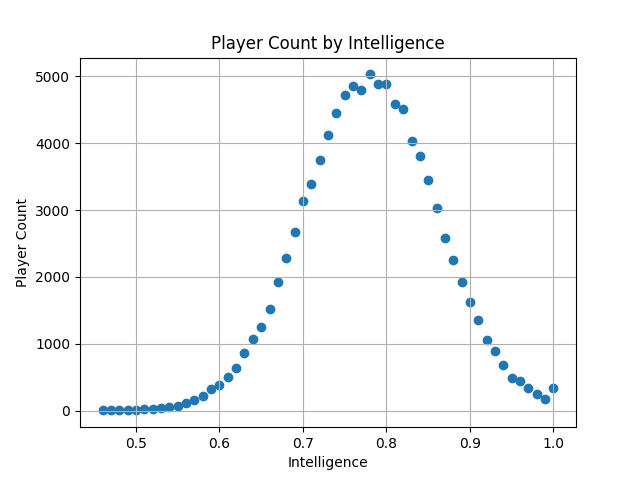
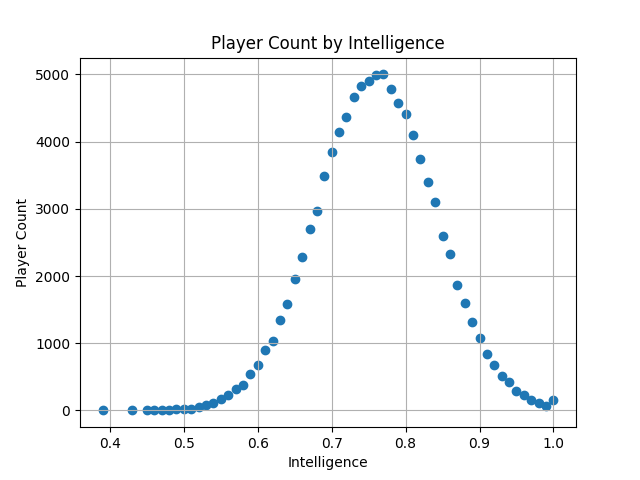
changes laptop

diff --git a/two-thirds-game/player.py b/two-thirds-game/player.py
@@ -3,28 +3,42 @@ from math import ceil
 import random
 CHOICE_RANGE = [1, 100]
 
-def clamp_choice(choice):
-    return ceil(max(CHOICE_RANGE[0], min(CHOICE_RANGE[1], choice)))
-
 class Player:
-    intelligence_epsilon = 0.01 # A small value to prevent infinite loops for very intelligent players
+    id = -1
+    thinking_depth = 0 # [0,1]
+    noise_range = 5 # random number from range is added or subtracted from answer
     answer = 0
+    score = 0
 
-    def __init__(self, id, intelligence):
+    def __init__(self, id, thinking_depth):
         self.id = id
-        self.intelligence = intelligence
+        self.thinking_depth = thinking_depth
         self.score = 0
 
     def add_win(self):
         self.score += 1
     
-    def give_answer(self, player_intelligence):
-        if player_intelligence > 1-self.intelligence_epsilon:
+    # Starting from a random answer a player with thinking_depth closer to 1 will do more 2/3 multiplications
+    def give_answer(self):
+        answer = random.uniform(1,100)
+
+        if self.thinking_depth > 0.99:
             return 1
-        two_thirds = (2 / 3) * CHOICE_RANGE[1]
         random_number = random.uniform(0,1)
-        while random_number < player_intelligence:
-            two_thirds *= (2 / 3)
+        while random_number < self.thinking_depth:
+            answer *= (2 / 3)
             random_number = random.uniform(0,1)
-        self.answer = clamp_choice(two_thirds)
+        answer_noised = answer + (random.uniform(-self.noise_range, self.noise_range))
+        self.answer = max(min(answer_noised, CHOICE_RANGE[1]), CHOICE_RANGE[0])
         return self.answer
+
+def main():
+    answers = []
+    for i in range(10000):
+        player = Player(i, 0.6)
+        answer = player.give_answer()
+        answers.append(answer)
+    print(f"Average answer: {sum(answers) / len(answers)}")
+
+if __name__ == "__main__":
+    main()

diff --git a/two-thirds-game/plot_winning_numbers_per_mean.py b/two-thirds-game/plot_winning_numbers_per_mean.py
@@ -17,7 +17,7 @@ def create_opponents(mean_intelligence=MEAN_PLAYER_INTELLIGENCE):
     for id in range(NUMBER_OF_PLAYERS):
         intelligence = random.gauss(mean_intelligence, SIGMA_SCALE)
         intelligence = max(0, min(1, intelligence)) # Ensure intelligence is between 0 and 1
-        opponents.append(Player(id=id, intelligence=intelligence))
+        opponents.append(Player(id=id, thinking_depth=intelligence))
     return opponents
 
 intelligence_epsilon = 0.01 # A small value to prevent infinite loops for very intelligent players
@@ -30,7 +30,7 @@ def get_winning_number(answers):
 def determine_winners(opponents, winning_number):
     winners = []
     for opponent in opponents:
-        if opponent.give_answer(opponent.intelligence) == winning_number:
+        if opponent.give_answer() == winning_number:
             winners.append(opponent)
     return winners
 
@@ -62,7 +62,7 @@ def main():
         opponents = create_opponents(mean_intelligence=mean_intelligence)
         winning_numbers = {}
         for round in range(NUMBER_OF_ROUNDS):
-            answers = [opponent.give_answer(opponent.intelligence) for opponent in opponents]
+            answers = [opponent.give_answer() for opponent in opponents]
             winning_number = get_winning_number(answers)
             winning_numbers[winning_number] = winning_numbers.get(winning_number, 0) + 1
             winners = determine_winners(opponents, winning_number)
@@ -70,7 +70,7 @@ def main():
                 winner.add_win()
         opponents.sort(key=lambda x: x.score, reverse=True)
         for opponent in opponents:
-            print(f"Player {opponent.id}, int: {opponent.intelligence:.2f}, score {opponent.score}")
+            print(f"Player {opponent.id}, int: {opponent.thinking_steps:.2f}, score {opponent.score}")
 
         winning_numbers_per_mean[mean_intelligence] = winning_numbers
     

diff --git a/two-thirds-game/plot_winning_count_by_intelligence.py b/two-thirds-game/plot_winning_count_by_intelligence.py
@@ -7,9 +7,9 @@ from Game import create_opponents, determine_winners, get_winning_number
 from player import Player
 
 NUMBER_OF_PLAYERS = 1000
-NUMBER_OF_ROUNDS = 10_00
+NUMBER_OF_ROUNDS = 100_000
 CHOICE_RANGE = [1, 100]
-MEAN_PLAYER_INTELLIGENCE = 0.78 # 1 is most inttelligent, 0 is least intelligent
+MEAN_PLAYER_INTELLIGENCE = 0.76 # 1 is most inttelligent, 0 is least intelligent
 SIGMA_SCALE = 0.3
 
 def plot_results(wins_by_intelligence):
@@ -26,16 +26,16 @@ def plot_results(wins_by_intelligence):
 def main():
     opponents: list[Player] = create_opponents(NUMBER_OF_PLAYERS, MEAN_PLAYER_INTELLIGENCE, SIGMA_SCALE)
     for round in range(NUMBER_OF_ROUNDS):
-        answers = [opponent.give_answer(opponent.intelligence) for opponent in opponents]
+        answers = [opponent.give_answer() for opponent in opponents]
         winning_number = get_winning_number(answers)
         winners = determine_winners(opponents, winning_number)
         for winner in winners:
             winner.add_win()
     wins_by_intelligence = {}
     for opponent in opponents:
-        if opponent.intelligence not in wins_by_intelligence:
-            wins_by_intelligence[opponent.intelligence] = []
-        wins_by_intelligence[opponent.intelligence].append(opponent.score)
+        if opponent.thinking_steps not in wins_by_intelligence:
+            wins_by_intelligence[opponent.thinking_steps] = []
+        wins_by_intelligence[opponent.thinking_steps].append(opponent.score)
     plot_results(wins_by_intelligence)    
     
 

diff --git a/two-thirds-game/plot_number_chosen_by_intelligence.py b/two-thirds-game/plot_number_chosen_by_intelligence.py
@@ -27,13 +27,13 @@ def main():
     opponents: list[Player] = create_opponents(NUMBER_OF_PLAYERS, MEAN_PLAYER_INTELLIGENCE, SIGMA_SCALE)
     answers_by_intelligence = {}
     for round in range(NUMBER_OF_ROUNDS):
-        answers = [opponent.give_answer(opponent.intelligence) for opponent in opponents]
+        answers = [opponent.give_answer() for opponent in opponents]
         winning_number = get_winning_number(answers)
         winners = determine_winners(opponents, winning_number)
         for opponent in opponents:
-            if opponent.intelligence not in answers_by_intelligence:
-                answers_by_intelligence[opponent.intelligence] = []
-            answers_by_intelligence[opponent.intelligence].append(opponent.answer)
+            if opponent.thinking_depth not in answers_by_intelligence:
+                answers_by_intelligence[opponent.thinking_depth] = []
+            answers_by_intelligence[opponent.thinking_depth].append(opponent.answer)
         for winner in winners:
             winner.add_win()
     

diff --git a/two-thirds-game/plot_player_count_per_intelligence.py b/two-thirds-game/plot_player_count_per_intelligence.py
@@ -9,7 +9,7 @@ from player import Player
 NUMBER_OF_PLAYERS = 100000
 NUMBER_OF_ROUNDS = 10_000
 CHOICE_RANGE = [1, 100]
-MEAN_PLAYER_INTELLIGENCE = 0.78 # 1 is most inttelligent, 0 is least intelligent
+MEAN_PLAYER_INTELLIGENCE = 0.76 # 1 is most inttelligent, 0 is least intelligent
 SIGMA_SCALE = 0.08 # value with the nicest curve
 
 def plot_results(player_count_by_intelligence):
@@ -27,7 +27,7 @@ def main():
     opponents: list[Player] = create_opponents(NUMBER_OF_PLAYERS, MEAN_PLAYER_INTELLIGENCE, SIGMA_SCALE)
     player_count_by_intelligence = {}
     for opponent in opponents:
-        rounded_intelligence = round(opponent.intelligence, 2)
+        rounded_intelligence = round(opponent.thinking_steps, 2)
         if rounded_intelligence not in player_count_by_intelligence:
             player_count_by_intelligence[rounded_intelligence] = 0
         player_count_by_intelligence[rounded_intelligence] += 1

diff --git a/two-thirds-game/Game.py b/two-thirds-game/Game.py
@@ -9,7 +9,7 @@ def create_opponents(number_of_players, mean_intelligence=0.5, sigma_scale=0.3):
     for id in range(number_of_players):
         intelligence = random.gauss(mean_intelligence, sigma_scale)
         intelligence = max(0, min(1, intelligence)) # Ensure intelligence is between 0 and 1
-        opponents.append(Player(id=id, intelligence=intelligence))
+        opponents.append(Player(id=id, thinking_depth=intelligence))
     return opponents
 
 def get_winning_number(answers):
